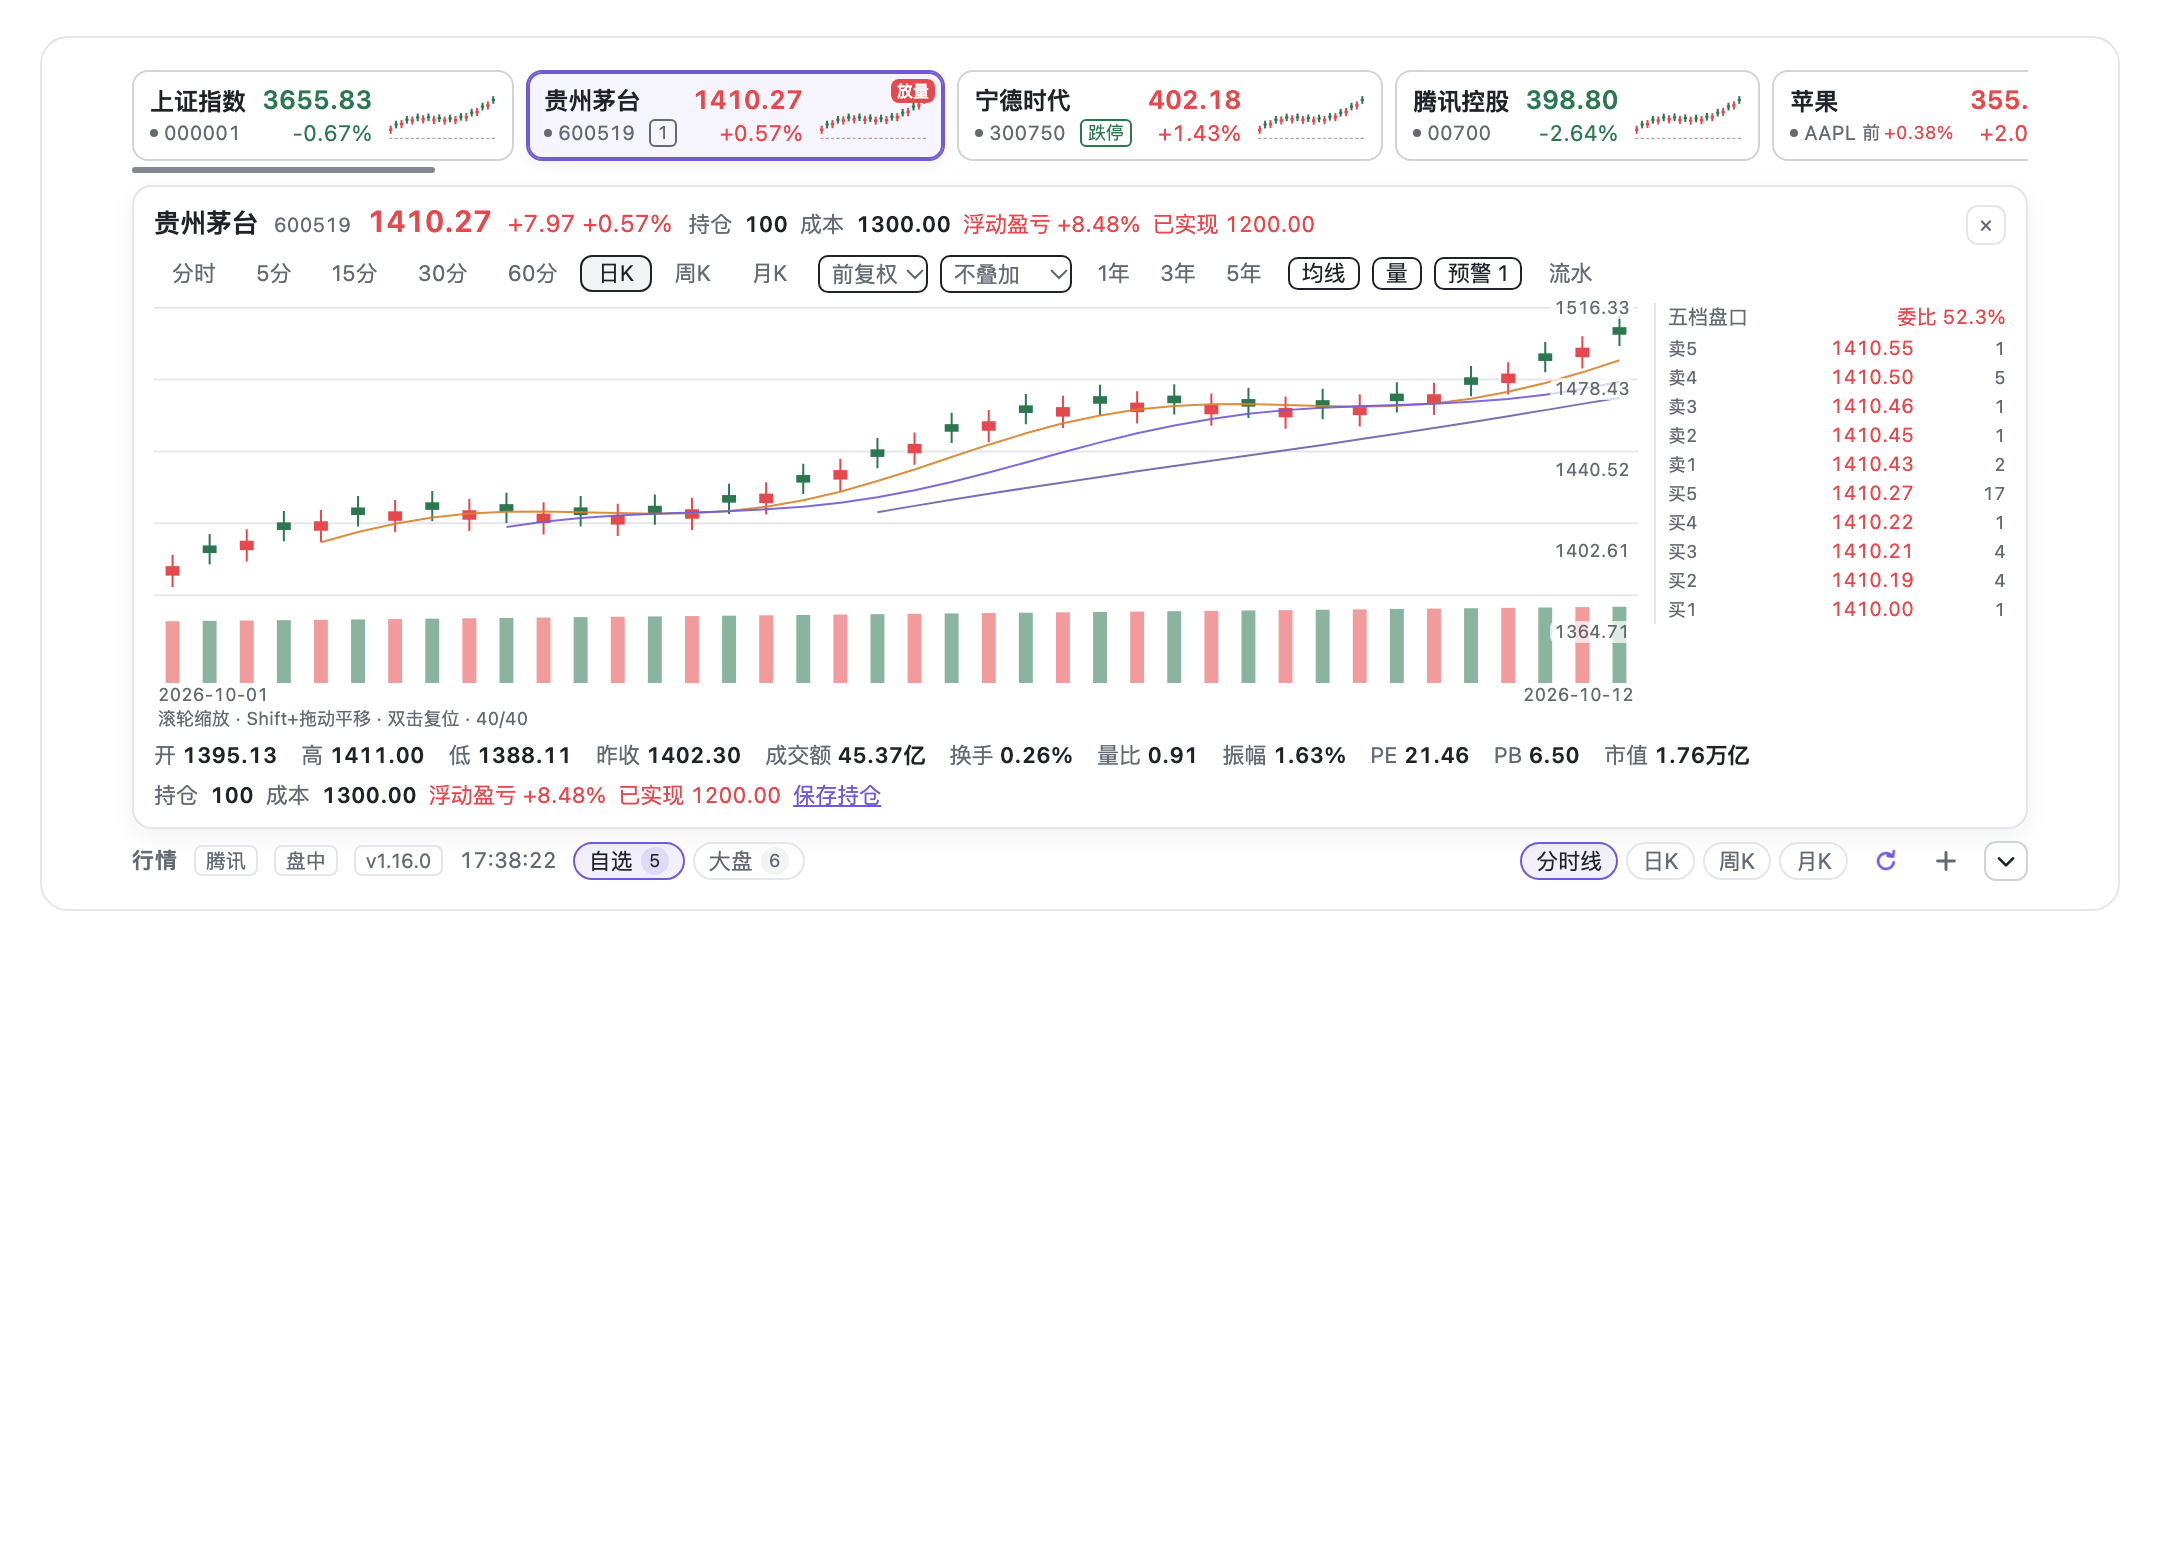
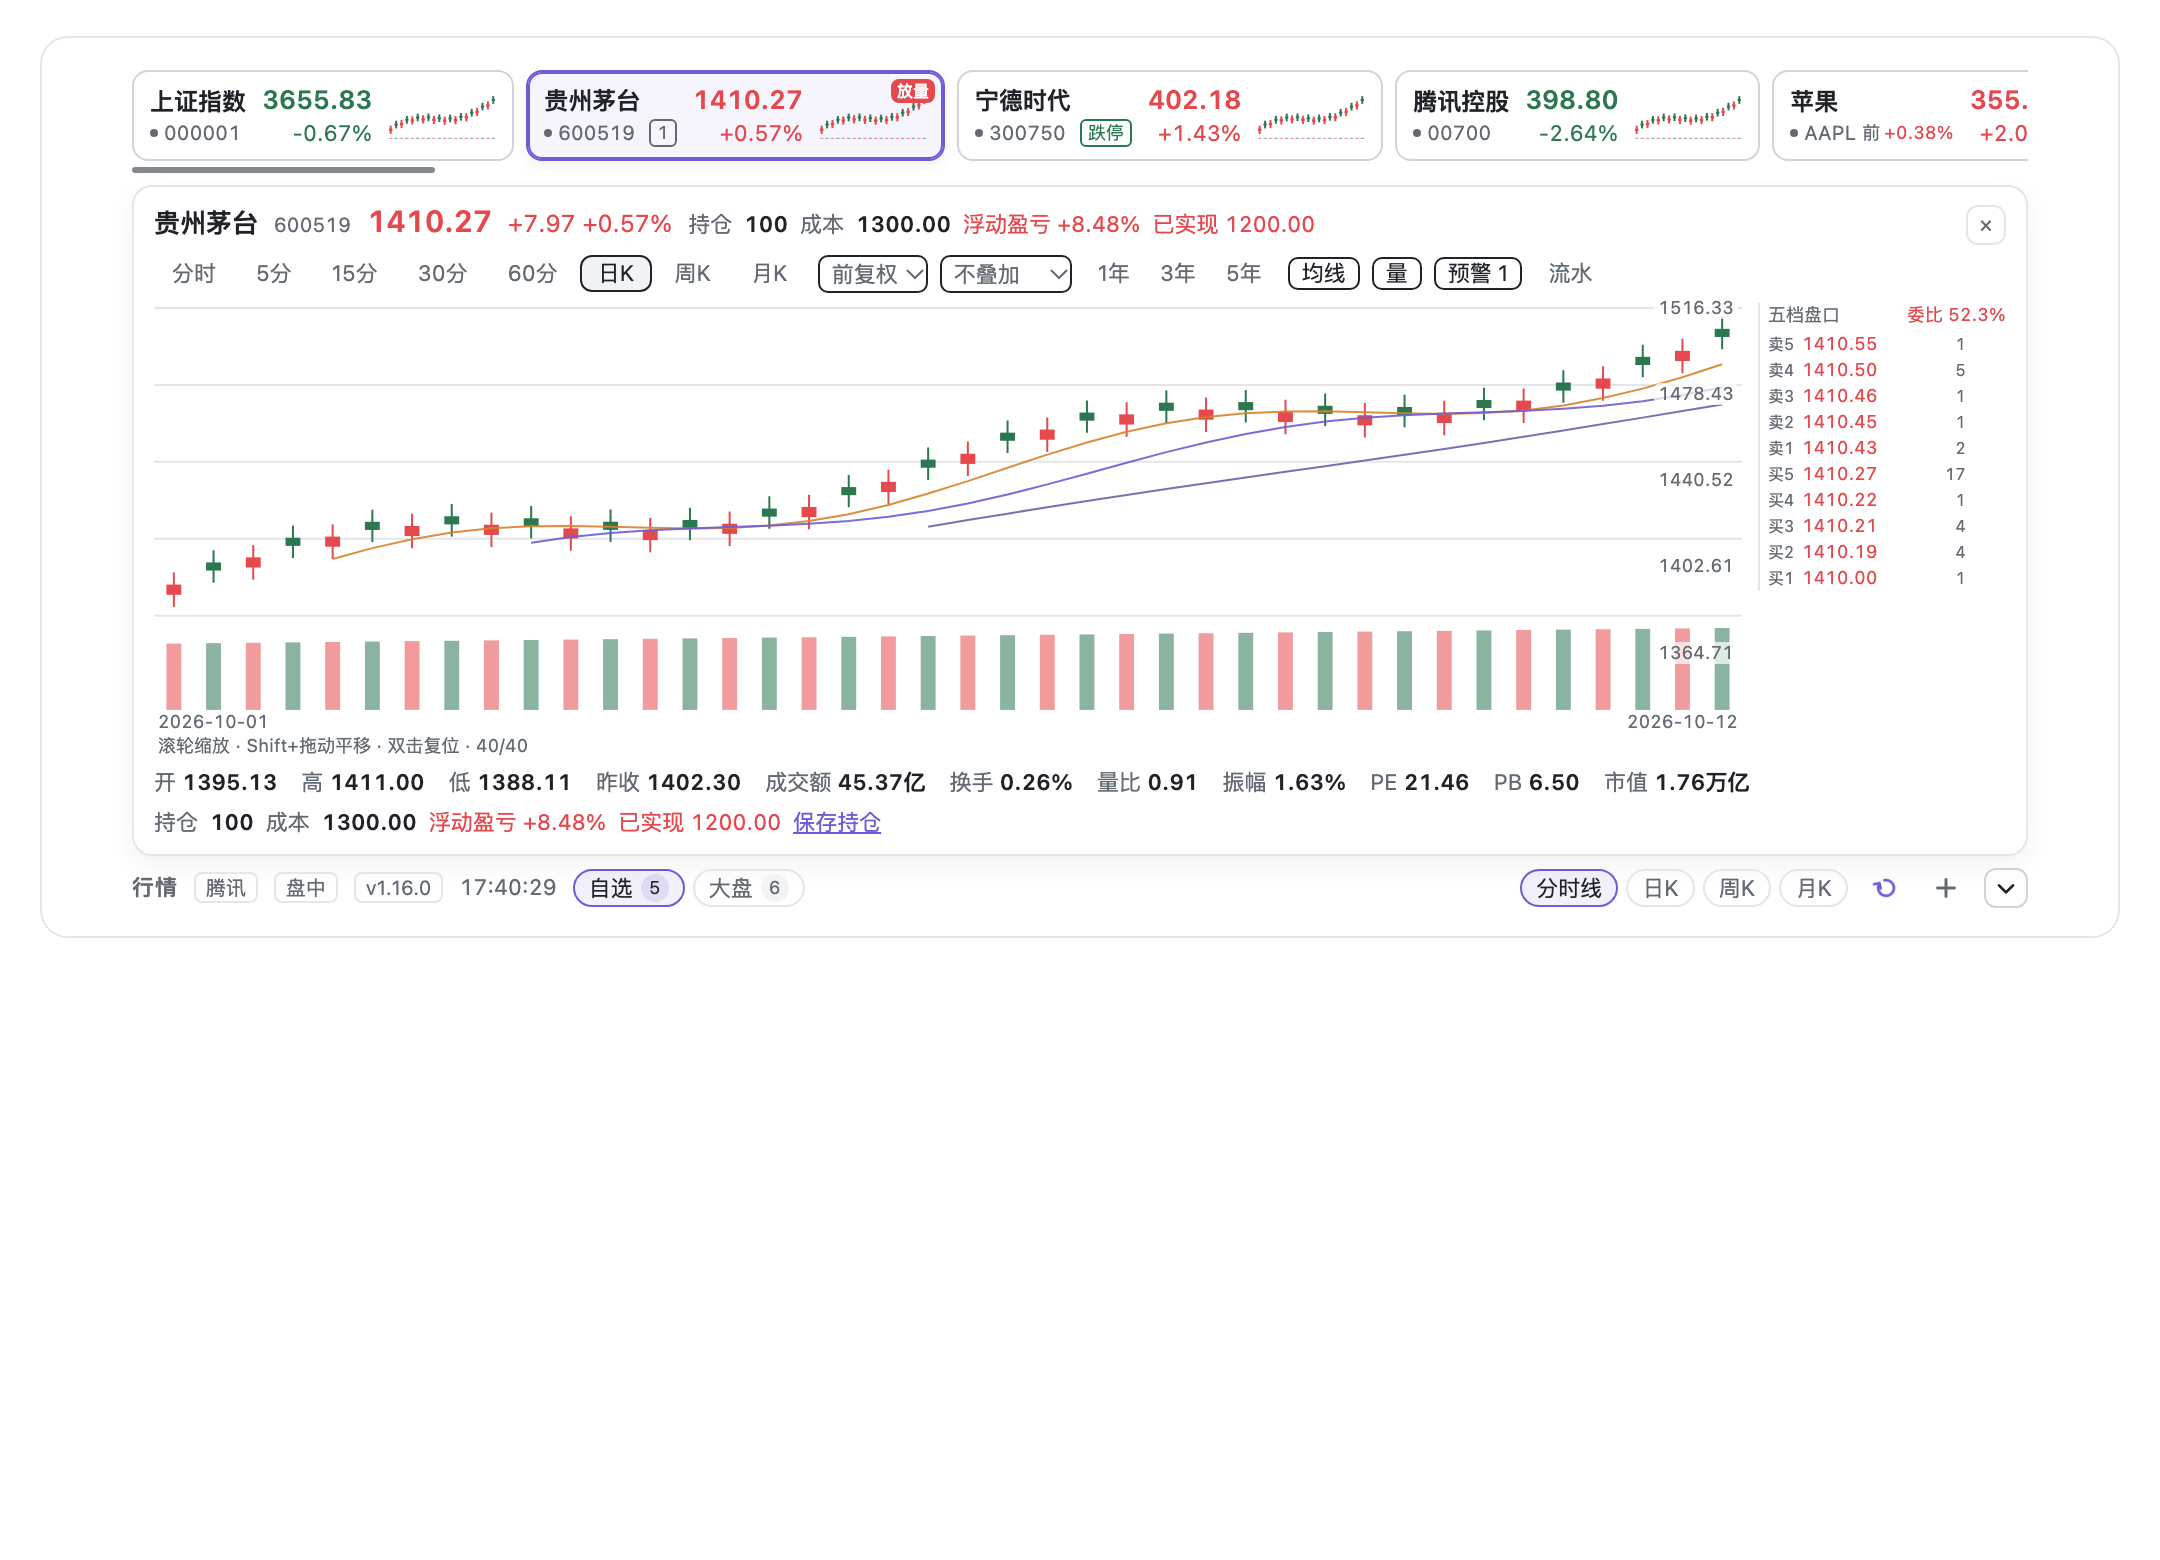
fix: tighten the order book to a narrow compact column

Changed region(s): [[0.062, 0.1846, 0.9616, 0.5846]]

diff --git a/client.js b/client.js
@@ -947,19 +947,19 @@ window.__ModuleLoader__.load({
 .dshst-chartCol { flex: 1 1 auto; min-width: 0; }
 .dshst-book {
   display: flex;
-  flex: 0 0 176px;
+  flex: 0 0 124px;
   flex-direction: column;
   gap: 2px;
-  width: 176px;
+  width: 124px;
   min-width: 0;
-  padding-left: 6px;
+  padding-left: 4px;
   border-left: 1px solid var(--dsw-alias-border-l1);
 }
 .dshst-bookHead {
   display: flex;
   justify-content: space-between;
   gap: 4px;
-  font-size: 10px;
+  font-size: 9px;
   color: var(--dsw-alias-label-secondary);
   font-variant-numeric: tabular-nums;
   white-space: nowrap;
@@ -968,14 +968,14 @@ window.__ModuleLoader__.load({
   display: grid;
   grid-template-columns: minmax(0, 1fr);
   gap: 0;
-  font-size: 10px;
-  line-height: 14px;
+  font-size: 9px;
+  line-height: 13px;
   font-variant-numeric: tabular-nums;
 }
 .dshst-bookRow { display: flex; align-items: baseline; gap: 2px; min-width: 0; white-space: nowrap; }
-.dshst-bookLabel { flex: 0 0 auto; white-space: nowrap; color: var(--dsw-alias-label-secondary); font-size: 9px; }
-.dshst-bookPrice { flex: 1 1 auto; min-width: 0; text-align: right; font-size: 10px; }
-.dshst-bookVolume { flex: 0 0 44px; margin-left: 0; text-align: right; color: var(--dsw-alias-label-secondary); font-size: 9px; }
+.dshst-bookLabel { flex: 0 0 15px; white-space: nowrap; color: var(--dsw-alias-label-secondary); font-size: 8px; }
+.dshst-bookPrice { flex: 0 0 46px; text-align: left; font-size: 9px; }
+.dshst-bookVolume { flex: 0 0 34px; margin-left: 0; text-align: right; color: var(--dsw-alias-label-secondary); font-size: 8px; }
 @media (max-width: 720px) {
   .dshst-chartRow { flex-direction: column; }
   .dshst-book { flex-basis: auto; width: 100%; border-left: 0; border-top: 1px solid var(--dsw-alias-border-l1); padding: 6px 0 0; }
